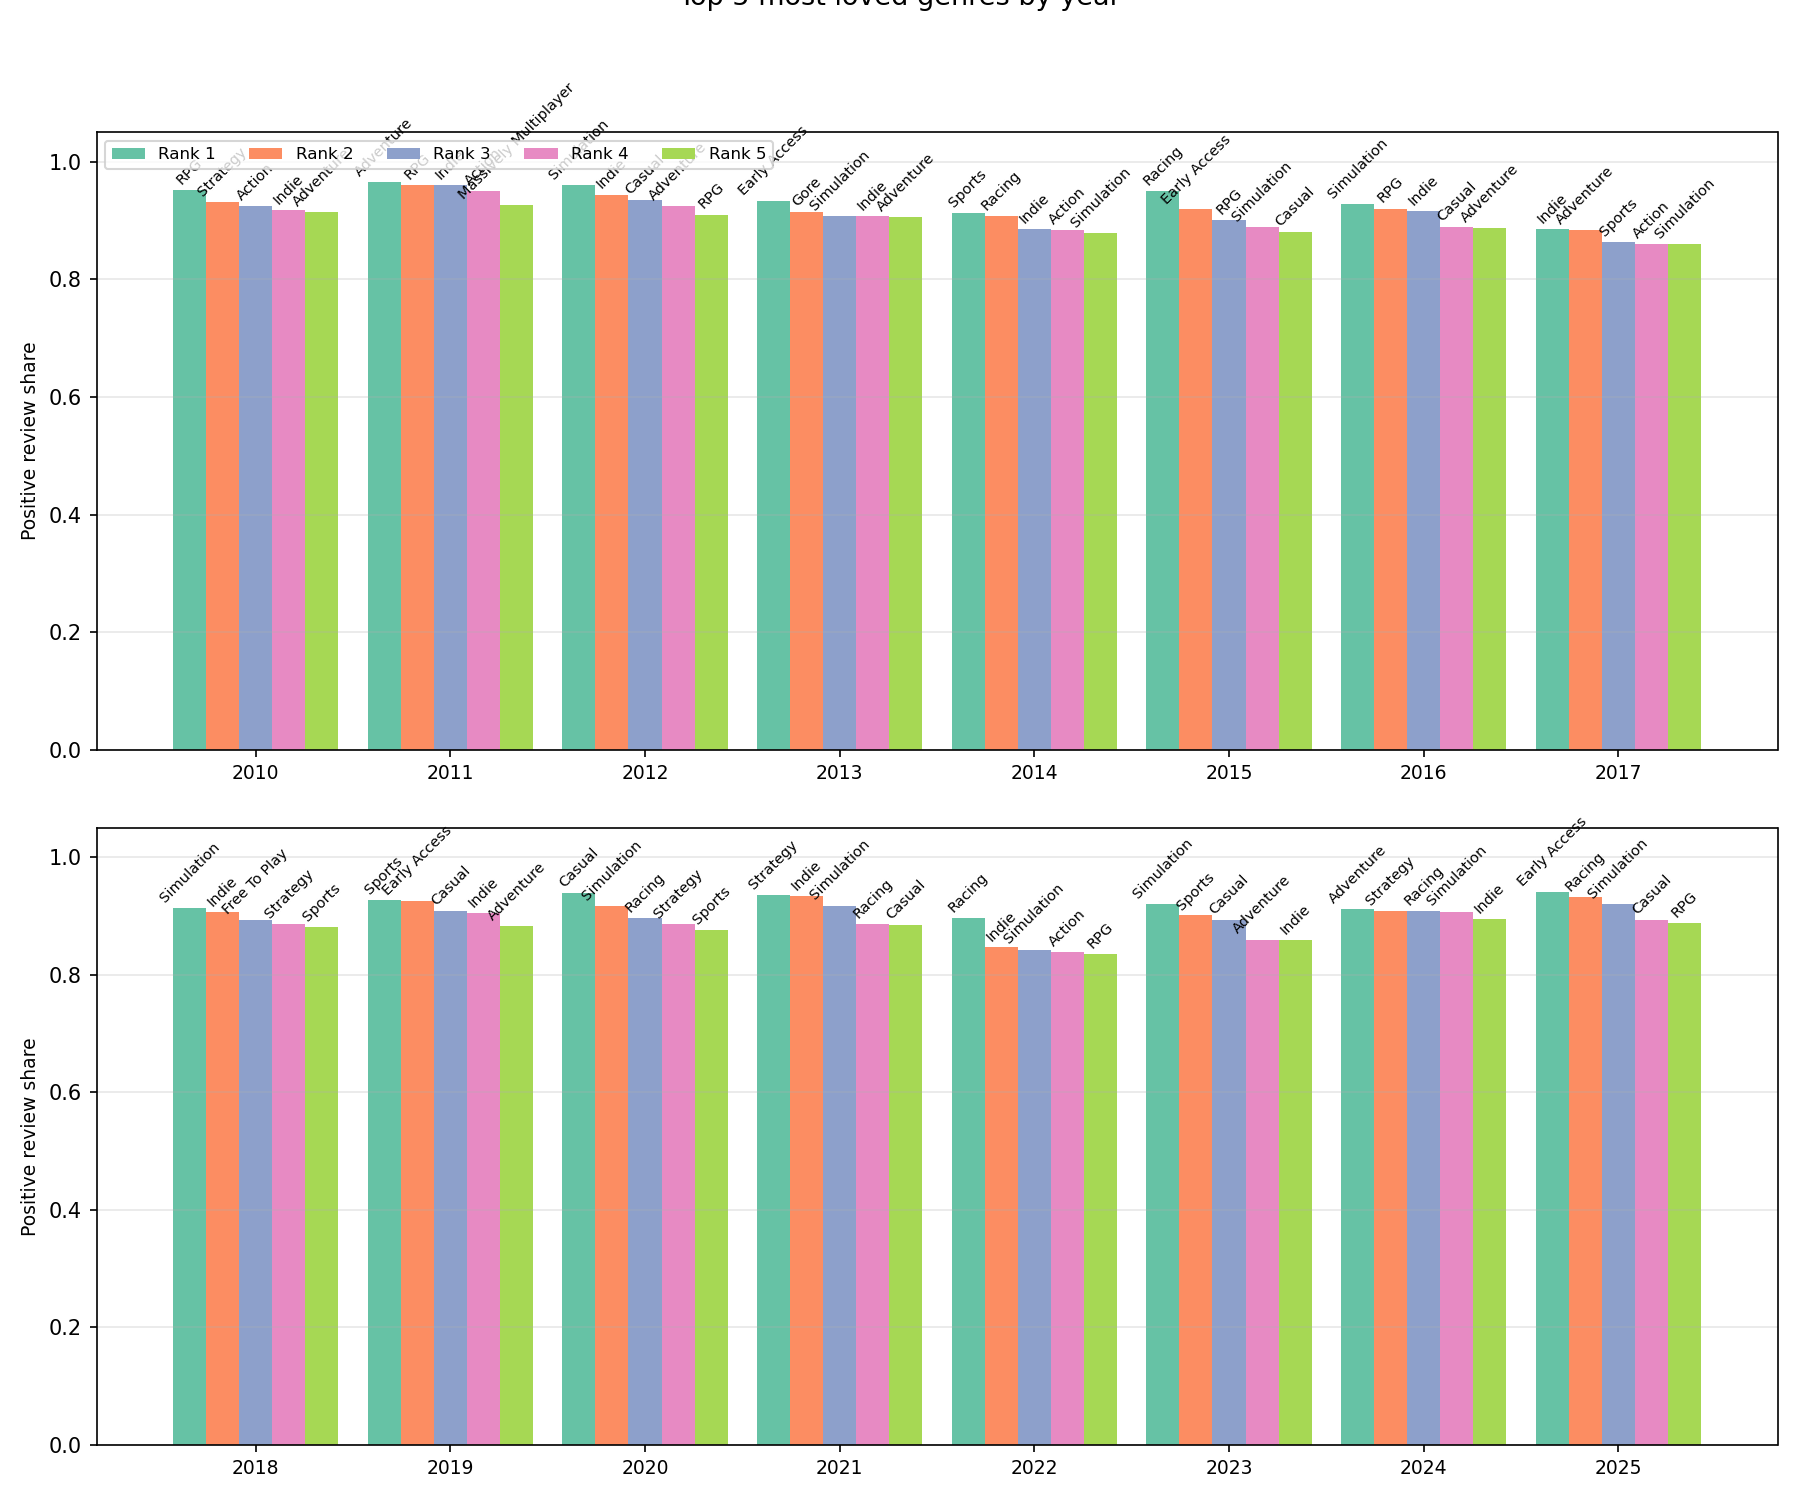
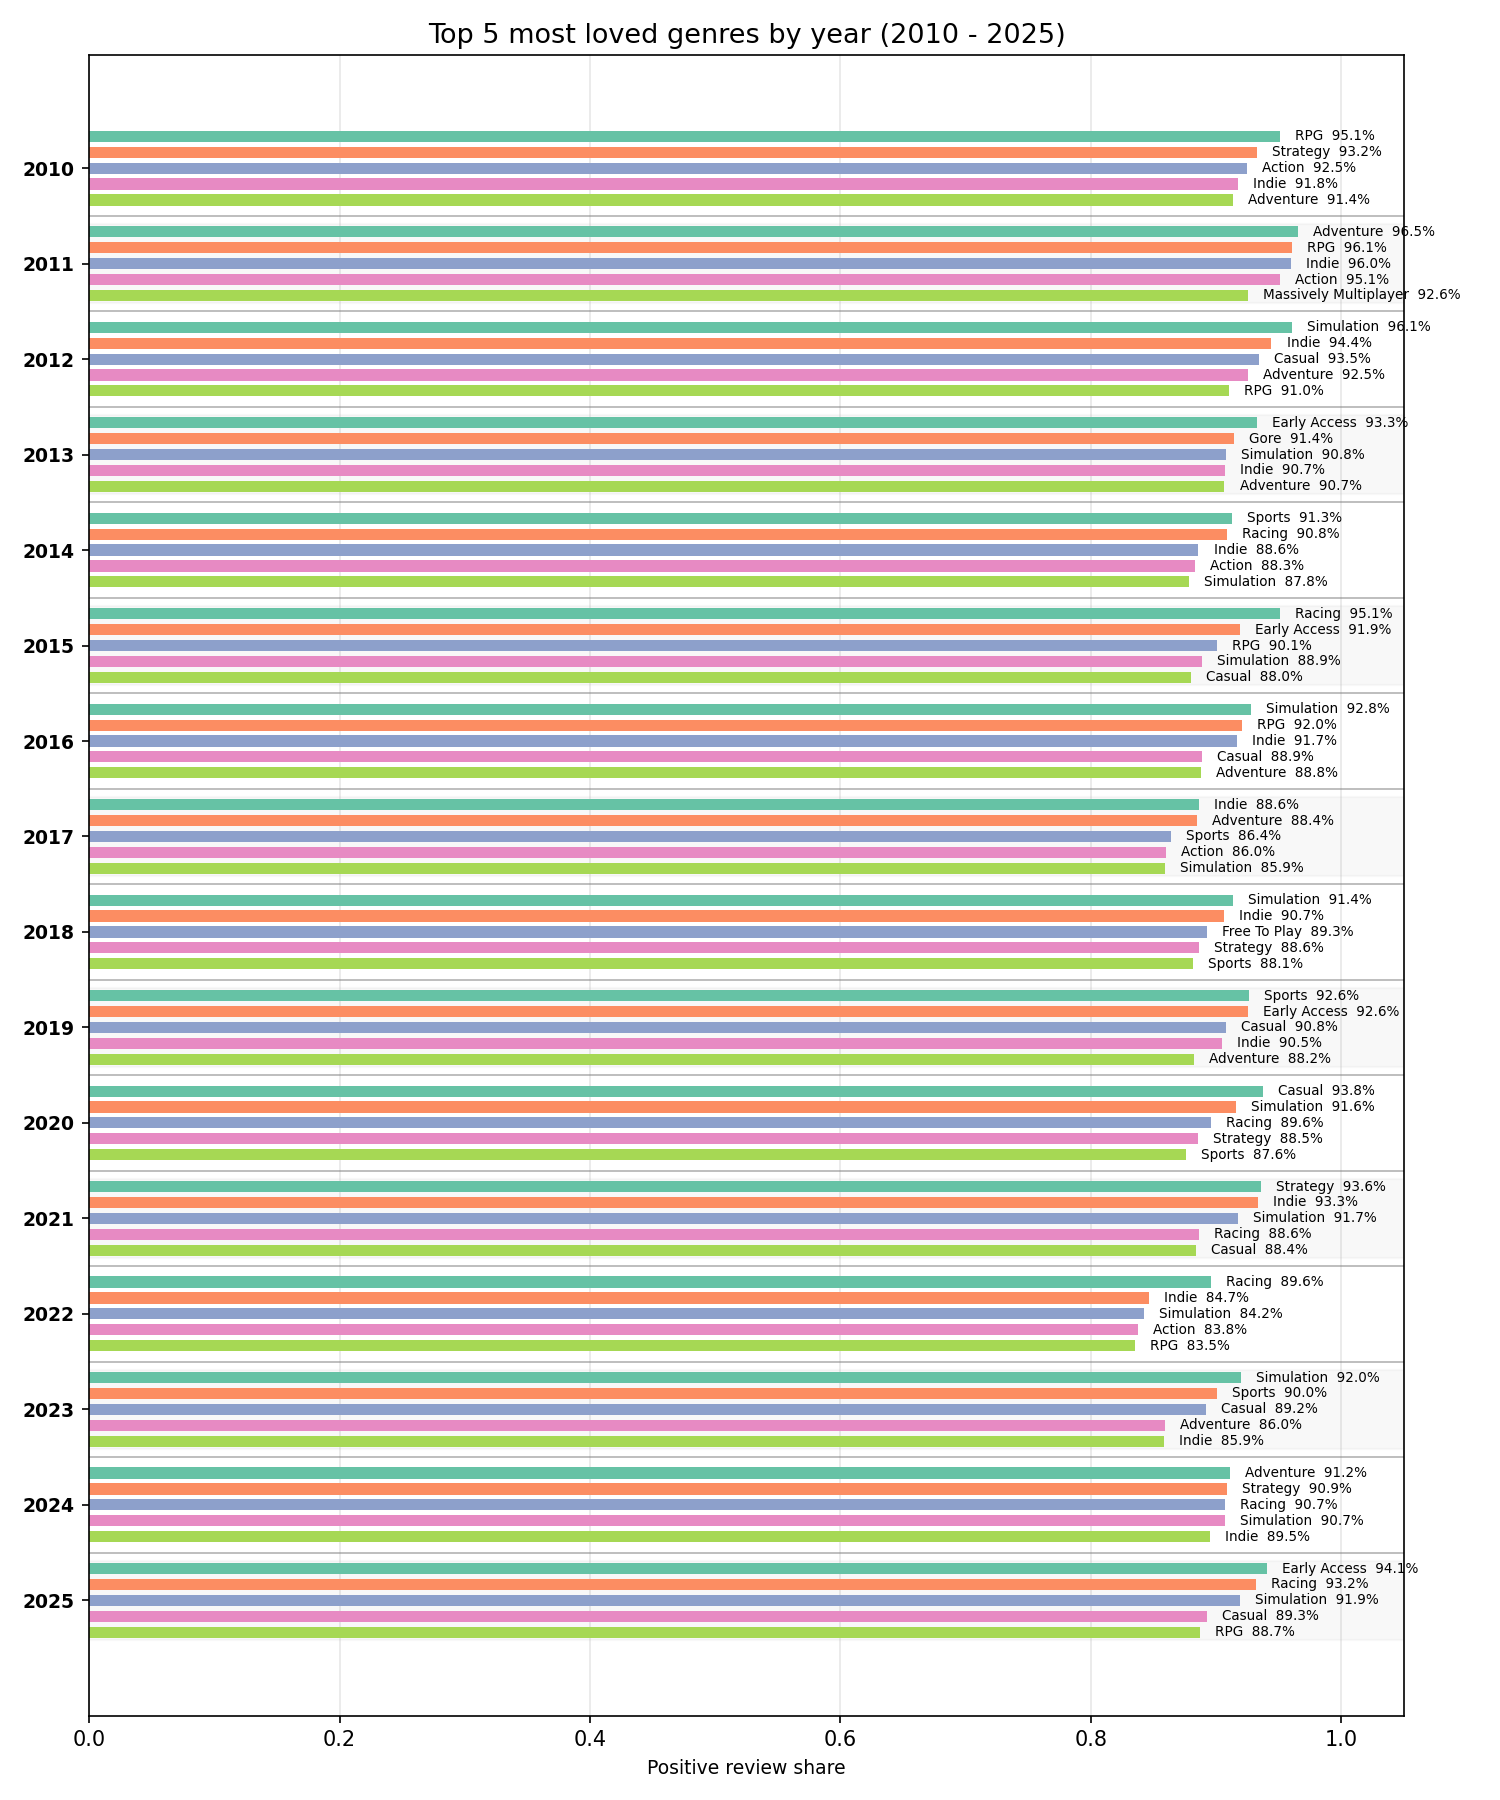
график высокооцененных жанров по годам

diff --git a/analytics/rating_by_year.py b/analytics/rating_by_year.py
@@ -57,62 +57,72 @@ def compute_top_genres_by_year(df: pd.DataFrame) -> pd.DataFrame:
 
 def plot_top_genres(top5: pd.DataFrame) -> None:
     years = sorted(top5["year"].unique())
-    n_years = len(years)
-    mid = (n_years + 1) // 2
-    year_groups = [years[:mid], years[mid:]]
-
-    fig, axes = plt.subplots(2, 1, figsize=(12, 10), sharey=True)
-
-    bar_width = 0.17
     colors = plt.cm.Set2.colors
 
-    for row_idx, year_group in enumerate(year_groups):
-        ax = axes[row_idx]
-        x = range(len(year_group))
+    fig, ax = plt.subplots(figsize=(10, 12))
 
-        for rank in range(5):
-            offset = (rank - 2) * bar_width
-            bars = []
-            labels = []
+    y_pos = []
+    genre_labels = []
+    values = []
+    bar_colors = []
+    year_ticks = []
+    year_labels = []
 
-            for year in year_group:
-                year_rows = top5[top5["year"] == year]
-                if rank < len(year_rows):
-                    row = year_rows.iloc[rank]
-                    bars.append(row["positive_share"])
-                    labels.append(row["genres_list"])
-                else:
-                    bars.append(0)
-                    labels.append("")
+    current_y = 0
+    for year in years:
+        year_rows = (
+            top5[top5["year"] == year]
+            .sort_values("positive_share", ascending=False)
+            .head(5)
+        )
 
-            ax.bar(
-                [xi + offset for xi in x],
-                bars,
-                bar_width,
-                label=f"Rank {rank + 1}",
-                color=colors[rank % len(colors)],
+        start_y = current_y
+        for rank, (_, row) in enumerate(year_rows.iterrows()):
+            y_pos.append(current_y)
+            genre_labels.append(row["genres_list"])
+            values.append(row["positive_share"])
+            bar_colors.append(colors[rank % len(colors)])
+            current_y += 1
+
+        year_ticks.append((start_y + current_y - 1) / 2)
+        year_labels.append(str(year))
+        current_y += 1  # gap between year groups
+
+    ax.barh(y_pos, values, height=0.7, color=bar_colors, zorder=2)
+    ax.set_yticks(year_ticks)
+    ax.set_yticklabels(year_labels, fontsize=9, fontweight="bold")
+    ax.invert_yaxis()
+    ax.set_xlim(0, 1.05)
+    ax.grid(axis="x", alpha=0.3, zorder=0)
+    ax.set_xlabel("Positive review share", fontsize=9)
+
+    for y, val, label in zip(y_pos, values, genre_labels):
+        ax.text(
+            val + 0.012,
+            y,
+            f"{label}  {val:.1%}",
+            va="center",
+            fontsize=6.5,
+        )
+
+    n_items_per_year = 6
+    for i in range(1, len(years)):
+        sep = i * n_items_per_year - 1
+        ax.axhline(y=sep, color="gray", linewidth=0.8, alpha=0.6)
+
+    for i in range(len(years)):
+        start = i * n_items_per_year
+        end = start + 4
+        if i % 2 == 1:
+            ax.axhspan(
+                start - 0.5,
+                end + 0.5,
+                color="lightgray",
+                alpha=0.15,
+                zorder=0,
             )
 
-            for xi, (bar_val, label) in enumerate(zip(bars, labels)):
-                if bar_val > 0:
-                    ax.text(
-                        xi + offset,
-                        bar_val + 0.005,
-                        label,
-                        ha="center",
-                        va="bottom",
-                        fontsize=7,
-                        rotation=45,
-                    )
-
-        ax.set_xticks(list(x))
-        ax.set_xticklabels([str(y) for y in year_group], fontsize=9)
-        ax.set_ylabel("Positive review share", fontsize=9)
-        ax.set_ylim(0, 1.05)
-        ax.grid(axis="y", alpha=0.3)
-
-    axes[0].legend(loc="upper left", fontsize=8, ncol=5)
-    fig.suptitle("Top 5 most loved genres by year", fontsize=13, y=1.01)
+    ax.set_title("Top 5 most loved genres by year (2010 - 2025)", fontsize=13)
     plt.tight_layout()
     out_path = f"{OUTPUT_DIR}/top_genres_by_year.png"
     fig.savefig(out_path, dpi=150)